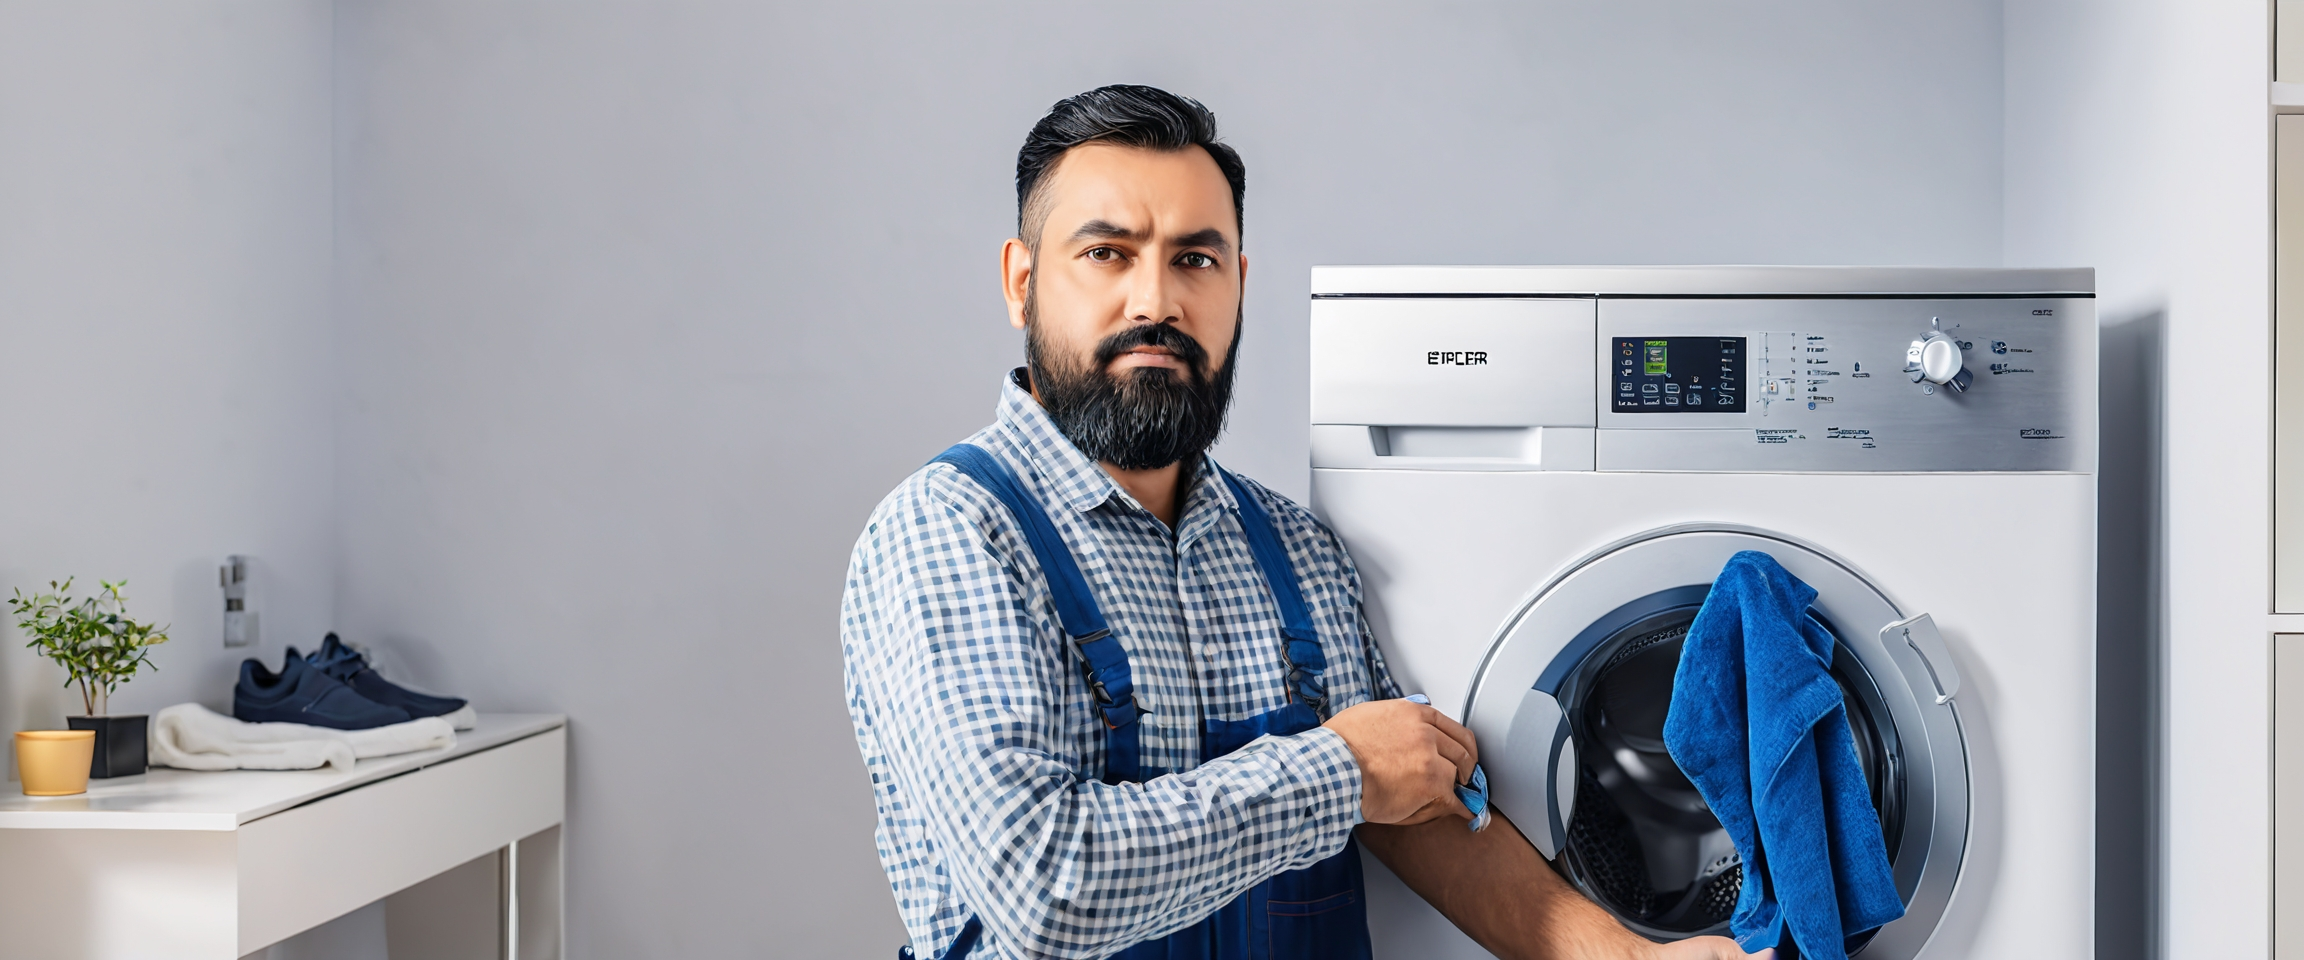
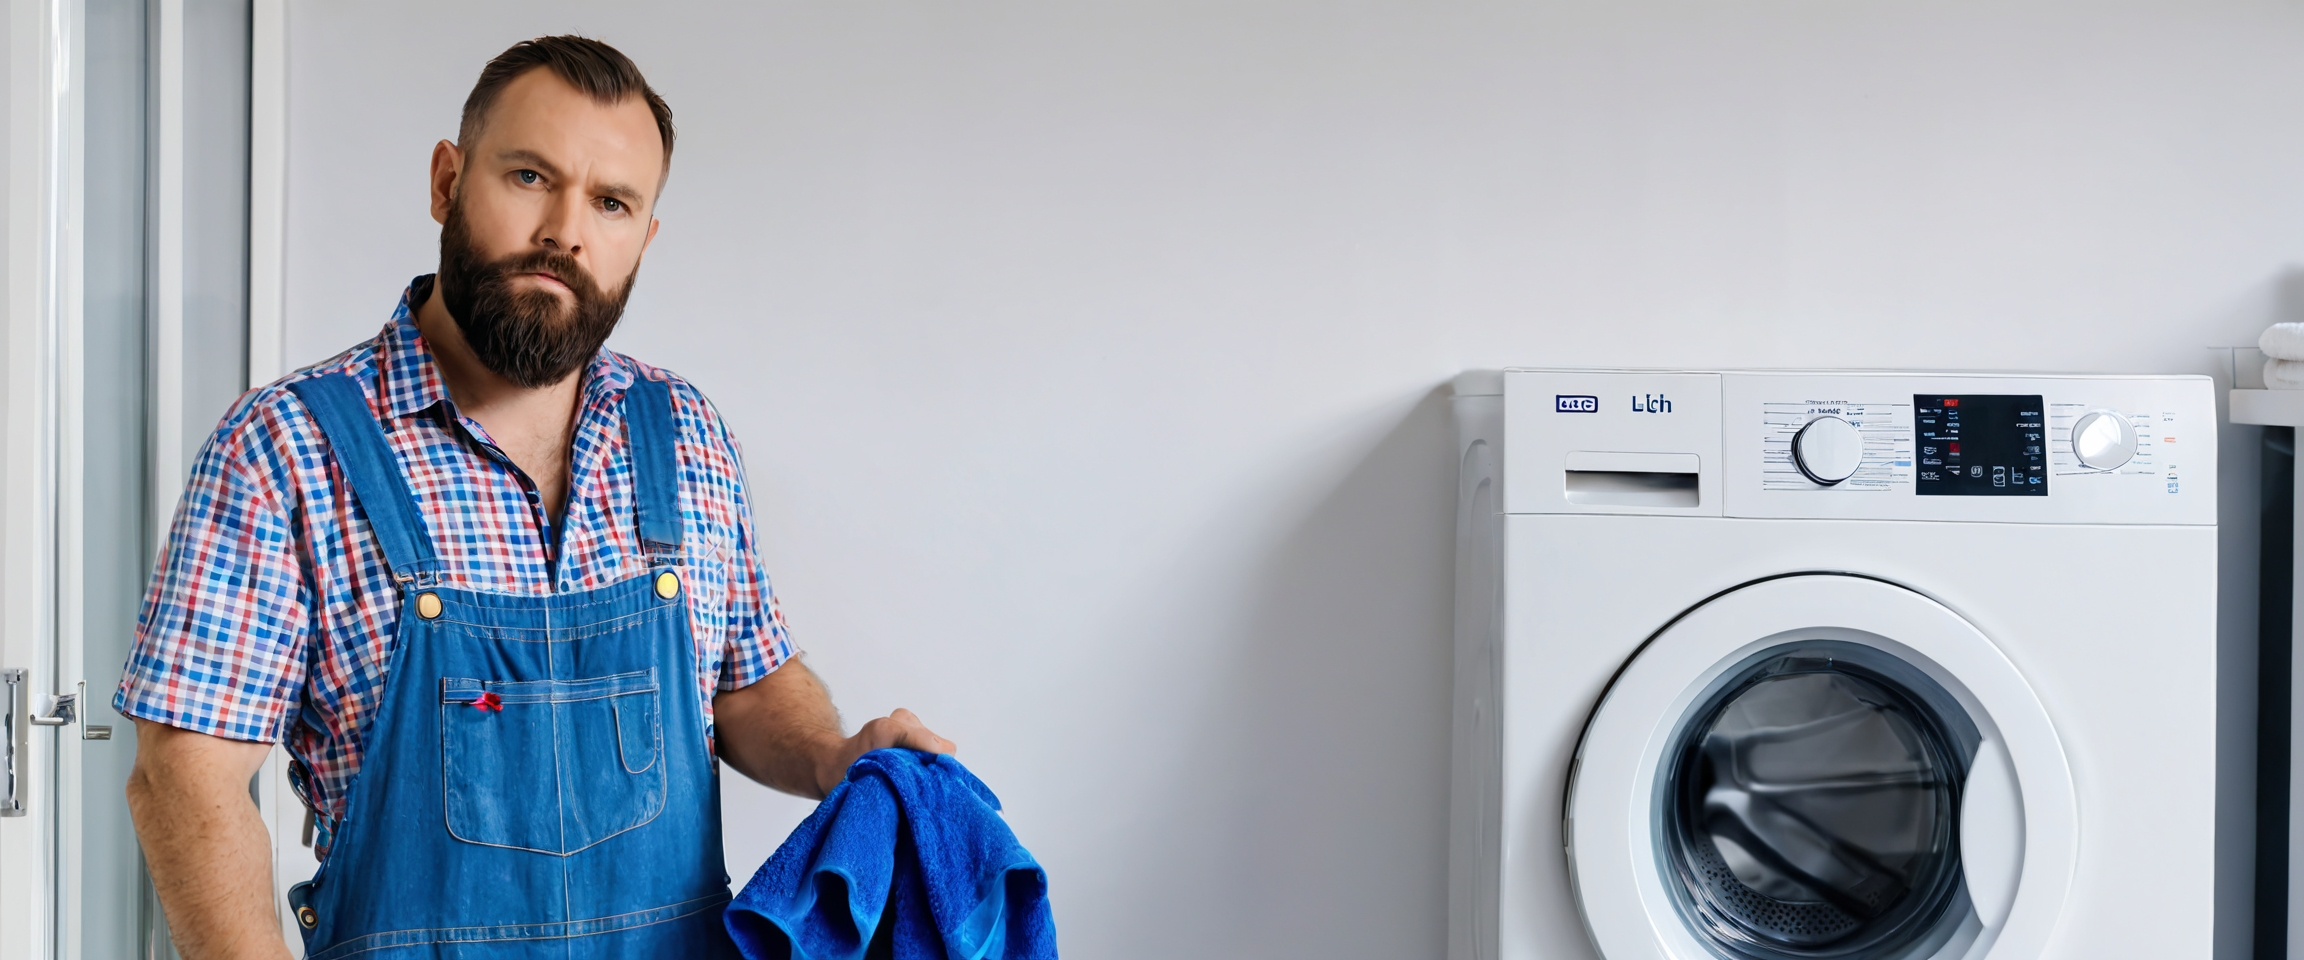
added new image for hero section,updated address, google map location

diff --git a/index.html b/index.html
@@ -430,9 +430,9 @@
               </ul> -->
               <p>
                 We, Zoom Repair Appliances, located at 1443 Chernaik Way SW,
-                Edmonton, Alberta, T6W 5B1, have emerged as a renowned service
-                provider for washing machine and home appliance repairs and
-                services. We are committed to delivering reliable and prompt
+                Edmonton, Alberta, AB T6W 1A8, have emerged as a renowned
+                service provider for washing machine and home appliance repairs
+                and services. We are committed to delivering reliable and prompt
                 services to our esteemed clients at market-leading prices. We
                 strive to continuously improve and innovate our services and
                 operating structure. Additionally, we prioritize maximum
@@ -1136,7 +1136,7 @@
                     <i class="bi bi-geo-alt flex-shrink-0 m-auto"></i>
                     <h3 class="mt-4">Our Office Address</h3>
                     <p class="mt-4">
-                      1443 Chernaik Way SW, Edmonton, Alberta, T6W 5B1
+                      1443 Cherniak Way SW, Edmonton, AB T6W 1A8
                     </p>
                   </div>
                 </div>
@@ -1176,7 +1176,7 @@
                   <div class="text-center">
                     <i class="bi bi-clock flex-shrink-0 m-auto"></i>
                     <h3 class="mt-4">Our Timings</h3>
-                    <p class="mt-4">Mon - Sun : 10:00 AM - 07:00 PM</p>
+                    <p class="mt-4">Mon - Sat : 08:00 AM - 08:00 PM</p>
                   </div>
                 </div>
                 <!-- End Info Item -->
@@ -1251,7 +1251,7 @@
 
             <div class="col-lg-12">
               <iframe
-                src="https://www.google.com/maps/embed?pb=!1m18!1m12!1m3!1d2378.274198877633!2d-113.5178231239581!3d53.40992216996551!2m3!1f0!2f0!3f0!3m2!1i1024!2i768!4f13.1!3m3!1m2!1s0x53a01dd82c994615%3A0x1754e03872a2457d!2s1443%20Cherniak%20Way%20SW%2C%20Edmonton%2C%20AB%20T6W%201A8%2C%20Canada!5e0!3m2!1sen!2s!4v1724259623326!5m2!1sen!2s"
+                src="https://www.google.com/maps/embed?pb=!1m18!1m12!1m3!1d2378.2743761159745!2d-113.51524819999999!3d53.409918999999995!2m3!1f0!2f0!3f0!3m2!1i1024!2i768!4f13.1!3m3!1m2!1s0x53a01dd82c994615%3A0x1754e03872a2457d!2s1443%20Cherniak%20Way%20SW%2C%20Edmonton%2C%20AB%20T6W%201A8%2C%20Canada!5e0!3m2!1sen!2s!4v1724925243191!5m2!1sen!2s"
                 frameborder="0"
                 style="border: 0; width: 100%; height: 270px"
                 allowfullscreen=""
@@ -1304,7 +1304,7 @@
           >
             <h4>Contact Us</h4>
             <p>1443 Chernaik Way SW</p>
-            <p>Edmonton, Alberta, T6W 5B1</p>
+            <p>Edmonton, Alberta, AB T6W 1A8</p>
             <p>Canada</p>
             <p class="mt-4">
               <strong>Phone:</strong> <span>+1 780 905-9473</span>
